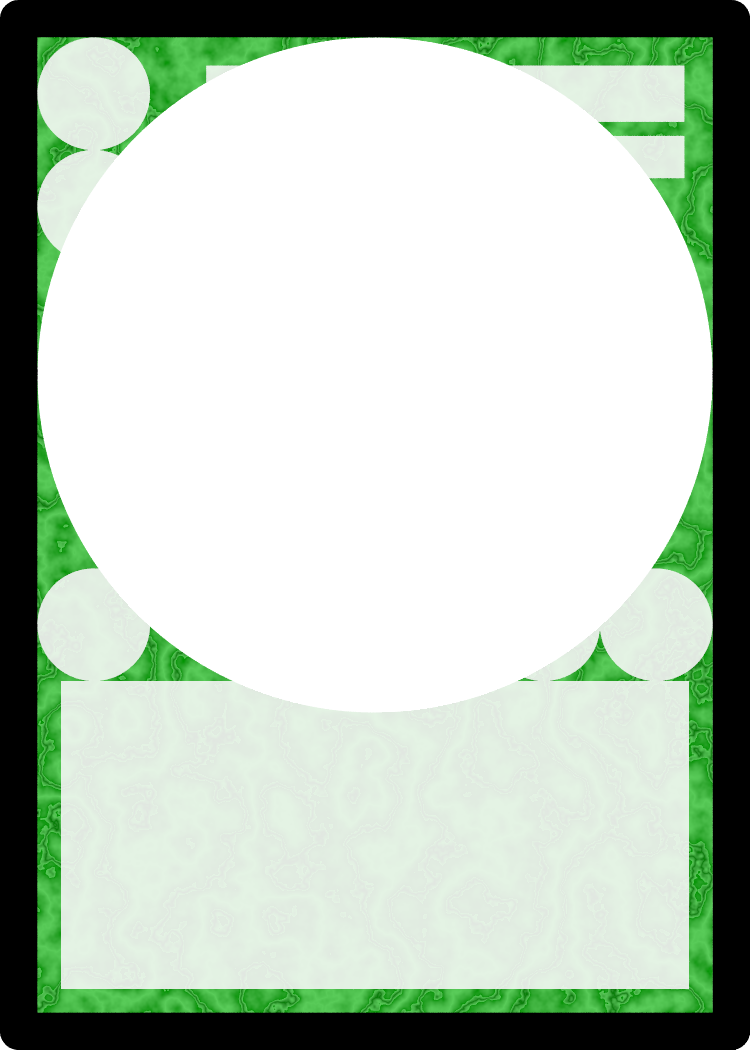
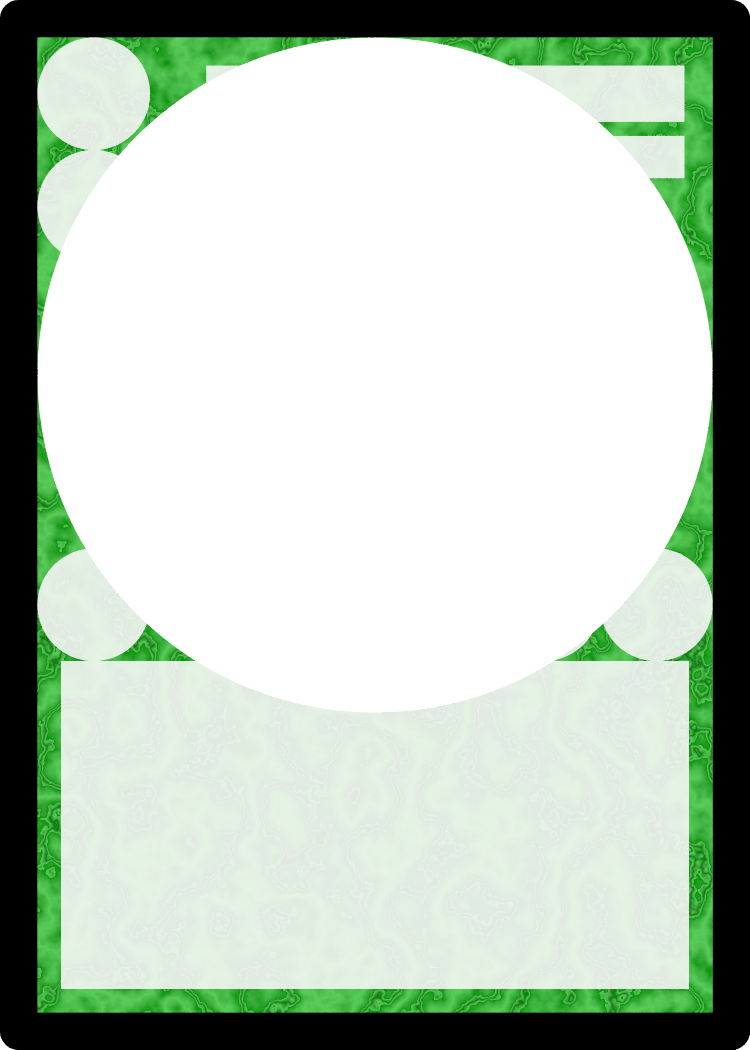
Made the rules text box on the cards a little taller.

diff --git a/FleetHackers/FleetHackers/FleetHackers/MainGame.cs b/FleetHackers/FleetHackers/FleetHackers/MainGame.cs
@@ -121,7 +121,7 @@ namespace FleetHackers
 		/// <summary>
 		/// The height of the rules text box on a card.
 		/// </summary>
-		private int _cardRulesHeight = 302;
+		private int _cardRulesHeight = 322;
 
 		/// <summary>
 		/// The left-most x coordinate of the rules text box on a card.
@@ -131,7 +131,7 @@ namespace FleetHackers
 		/// <summary>
 		/// The top-most y coordinate of the rules text box on a card.
 		/// </summary>
-		private int _cardRulesTopY = 684;
+		private int _cardRulesTopY = 664;
 
 		/// <summary>
 		/// The width of the title box on a card.
@@ -424,7 +424,7 @@ namespace FleetHackers
 				/*Card c = null;
 				foreach (Card cx in _cards)
 				{
-					if (cx.Title == "Microdrone")
+					if (cx.Title == "Counting Privateer")
 					{
 						c = cx;
 						break;
